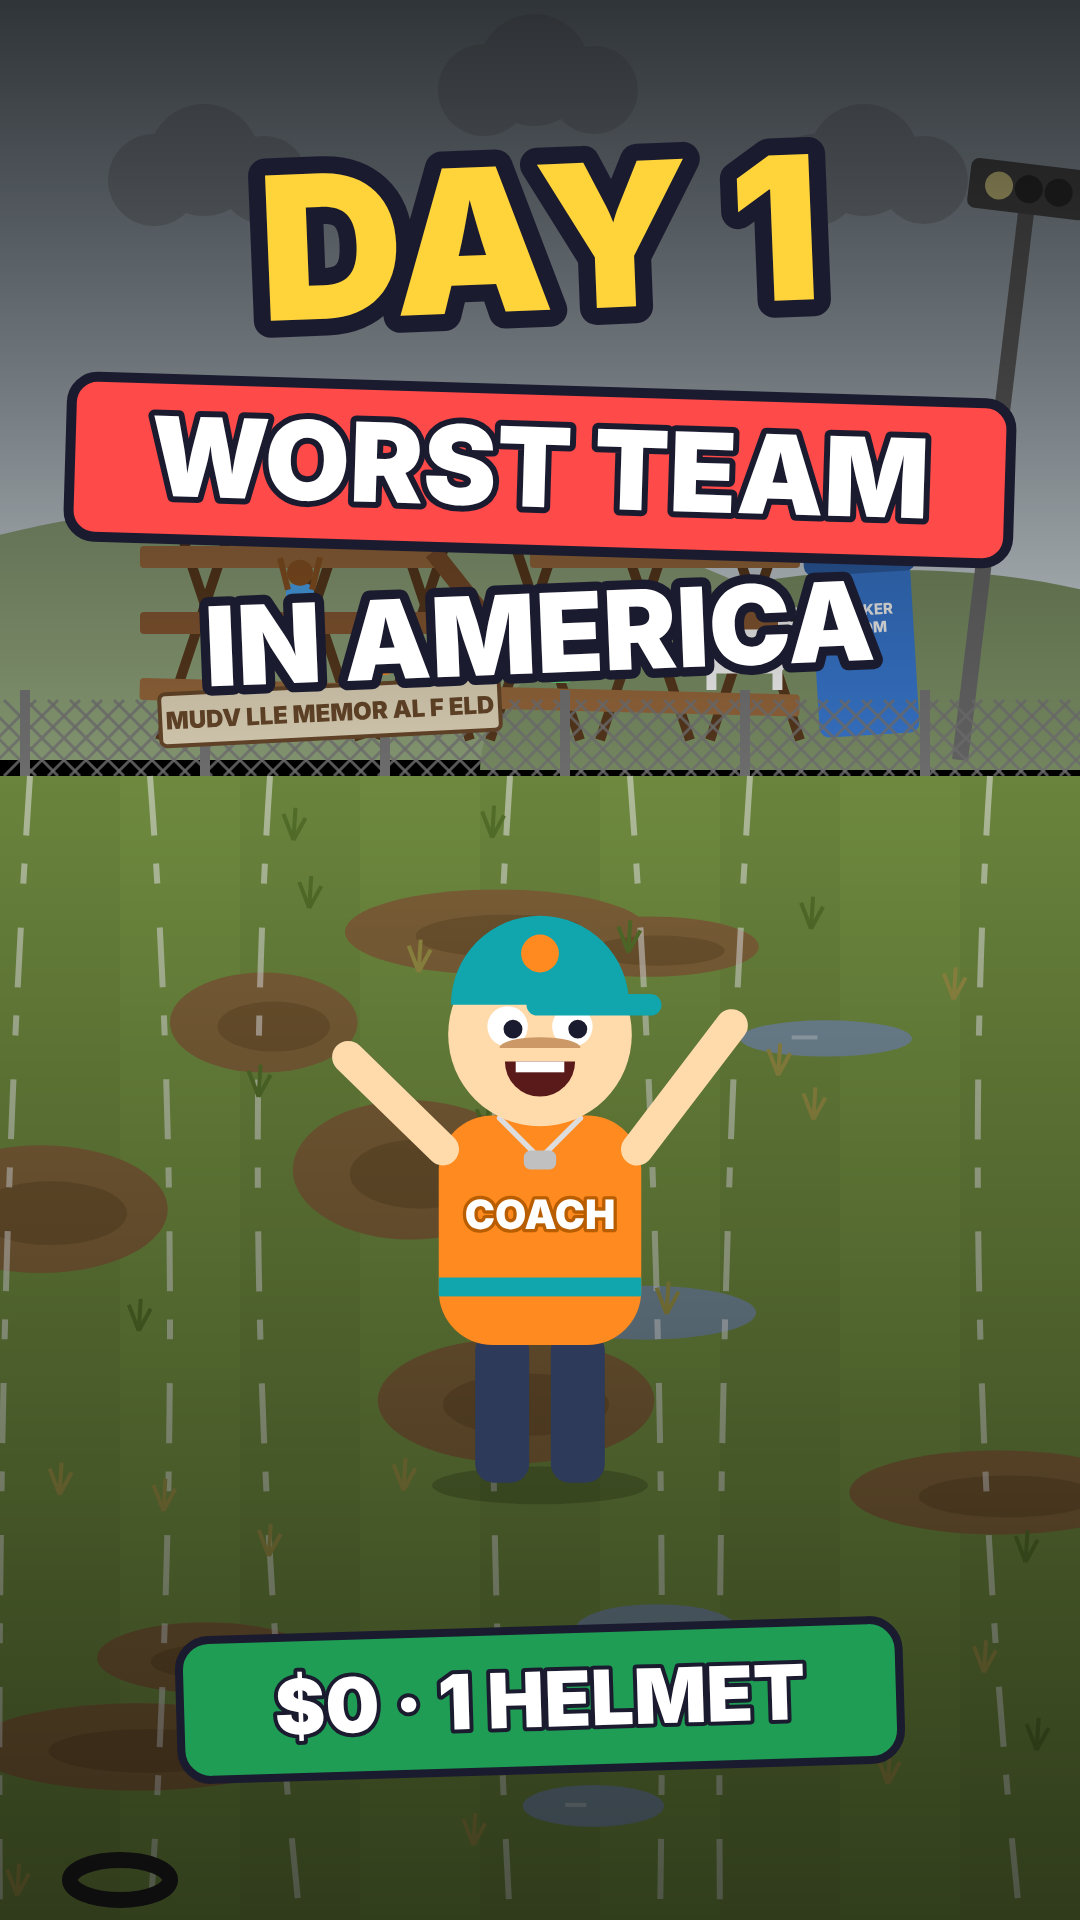
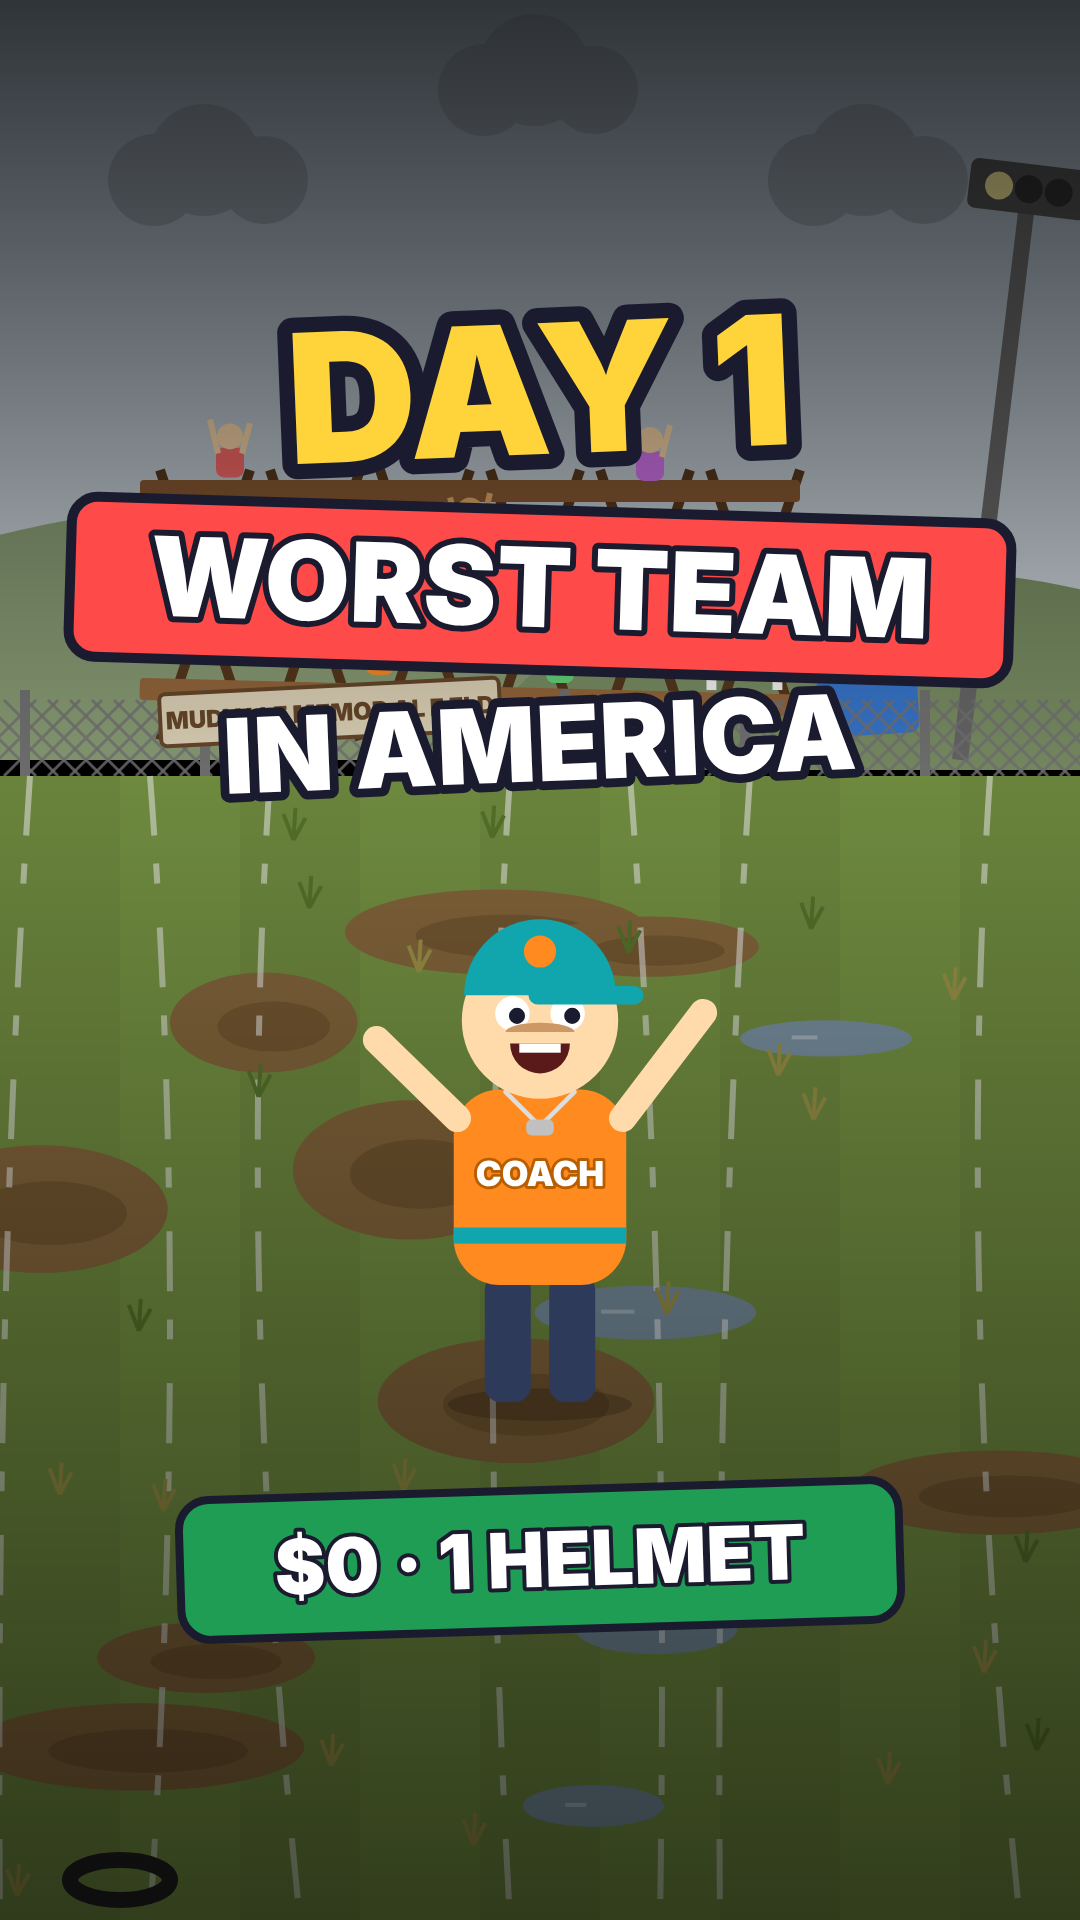
Possums covers: keep text inside TikTok/Instagram 3:4 grid area
Claude-Session: https://claude.ai/code/session_013umtZoLEZ37bGJSpkYeTGU

diff --git a/possums-videos/thumbnail.js b/possums-videos/thumbnail.js
@@ -1,4 +1,5 @@
 // usage: node thumbnail.js <episode_dir> <day> -> <episode_dir>/thumbnail.png (1080x1920 cover for TikTok/Reels/Shorts)
+// All text stays inside the centre 3:4 area (y 240-1680) that TikTok/Instagram profile grids show.
 const { chromium } = require('playwright'); const path = require('path'); const fs = require('fs');
 (async () => {
   const dir = path.resolve(process.argv[2]), day = parseInt(process.argv[3] || '1');
@@ -11,19 +12,19 @@ const { chromium } = require('playwright'); const path = require('path'); const 
     const g = ctx.createLinearGradient(0, 0, 0, 1920); g.addColorStop(0, 'rgba(0,0,0,.7)'); g.addColorStop(.4, 'rgba(0,0,0,.1)'); g.addColorStop(1, 'rgba(0,0,0,.6)'); ctx.fillStyle = g; ctx.fillRect(0, 0, W, H);
     const big = (s, y, size, color, rot = -.04) => withT(540, y, 1, rot, () => txt(s, 0, 0, size, color, { stroke: size * .17 }));
     if (day === 1) {
-      drawCoach(540, 1480, 1.35, 0.1, { bounce: 0 });
-      big('DAY 1', 250, 200, '#ffd43b');
-      withT(540, 470, 1, .03, () => { ctx.fillStyle = '#ff4a4a'; rr(-470, -80, 940, 160, 26); ctx.fill(); ctx.strokeStyle = '#1b1b2f'; ctx.lineWidth = 10; ctx.stroke(); txt('WORST TEAM', 0, 4, 110, '#fff', { stroke: 12 }); });
-      big('IN AMERICA', 640, 110, '#fff');
-      withT(540, 1700, 1, -.03, () => { ctx.fillStyle = '#1f9d55'; rr(-360, -70, 720, 140, 30); ctx.fill(); ctx.strokeStyle = '#1b1b2f'; ctx.lineWidth = 8; ctx.stroke(); txt('$0 · 1 HELMET', 0, 4, 76, '#fff', { stroke: 8 }); });
+      drawCoach(540, 1400, 1.15, 0.1, { bounce: 0 });
+      big('DAY 1', 400, 180, '#ffd43b');
+      withT(540, 590, 1, .03, () => { ctx.fillStyle = '#ff4a4a'; rr(-470, -80, 940, 160, 26); ctx.fill(); ctx.strokeStyle = '#1b1b2f'; ctx.lineWidth = 10; ctx.stroke(); txt('WORST TEAM', 0, 4, 110, '#fff', { stroke: 12 }); });
+      big('IN AMERICA', 750, 104, '#fff');
+      withT(540, 1560, 1, -.03, () => { ctx.fillStyle = '#1f9d55'; rr(-360, -70, 720, 140, 30); ctx.fill(); ctx.strokeStyle = '#1b1b2f'; ctx.lineWidth = 8; ctx.stroke(); txt('$0 · 1 HELMET', 0, 4, 76, '#fff', { stroke: 8 }); });
     } else {
       const xs = [190, 420, 660, 900], who = [{ num: 1, skin: '#ffdbac' }, { num: 3, mustache: true, skin: '#f1c27d' }, { num: 12, skin: '#8d5524' }, { wide: 1.6, num: 55, skin: '#c68642', helmetSmall: true, face: 'sad' }];
-      xs.forEach((x, i) => drawPlayer(x, 1500, i === 3 ? 1.15 : .95, { helmet: true, ...who[i] }));
-      big('DAY 2', 250, 200, '#ffd43b');
-      withT(540, 470, 1, .03, () => { ctx.fillStyle = '#1f9d55'; rr(-430, -85, 860, 170, 26); ctx.fill(); ctx.strokeStyle = '#1b1b2f'; ctx.lineWidth = 10; ctx.stroke(); txt('$403', 0, 4, 140, '#fff', { stroke: 14 }); });
-      big('BOUGHT HELMETS', 650, 100, '#fff');
-      withT(810, 1050, 1, .12, () => txt("LOU'S IS", 0, -55, 64, '#ff4a4a', { stroke: 12 })); withT(810, 1050, 1, .12, () => txt('TOO SMALL', 0, 15, 72, '#ff4a4a', { stroke: 12 }));
-      withT(540, 1730, 1, -.03, () => { ctx.fillStyle = '#11a5ad'; rr(-440, -70, 880, 140, 30); ctx.fill(); ctx.strokeStyle = '#1b1b2f'; ctx.lineWidth = 8; ctx.stroke(); txt('+6 JOINED THE TEAM', 0, 4, 70, '#fff', { stroke: 8 }); });
+      xs.forEach((x, i) => drawPlayer(x, 1430, i === 3 ? 1.05 : .88, { helmet: true, ...who[i] }));
+      big('DAY 2', 400, 180, '#ffd43b');
+      withT(540, 590, 1, .03, () => { ctx.fillStyle = '#1f9d55'; rr(-430, -85, 860, 170, 26); ctx.fill(); ctx.strokeStyle = '#1b1b2f'; ctx.lineWidth = 10; ctx.stroke(); txt('$403', 0, 4, 140, '#fff', { stroke: 14 }); });
+      big('BOUGHT HELMETS', 755, 96, '#fff');
+      withT(800, 960, 1, .1, () => txt("LOU'S IS", 0, -52, 58, '#ff4a4a', { stroke: 12 })); withT(800, 960, 1, .1, () => txt('TOO SMALL', 0, 12, 66, '#ff4a4a', { stroke: 12 }));
+      withT(540, 1580, 1, -.03, () => { ctx.fillStyle = '#11a5ad'; rr(-440, -70, 880, 140, 30); ctx.fill(); ctx.strokeStyle = '#1b1b2f'; ctx.lineWidth = 8; ctx.stroke(); txt('+6 JOINED THE TEAM', 0, 4, 70, '#fff', { stroke: 8 }); });
     }
   }, { tl, day });
   await pg.screenshot({ path: path.join(dir, 'thumbnail.png'), clip: { x: 0, y: 0, width: 1080, height: 1920 } }); await b.close();
